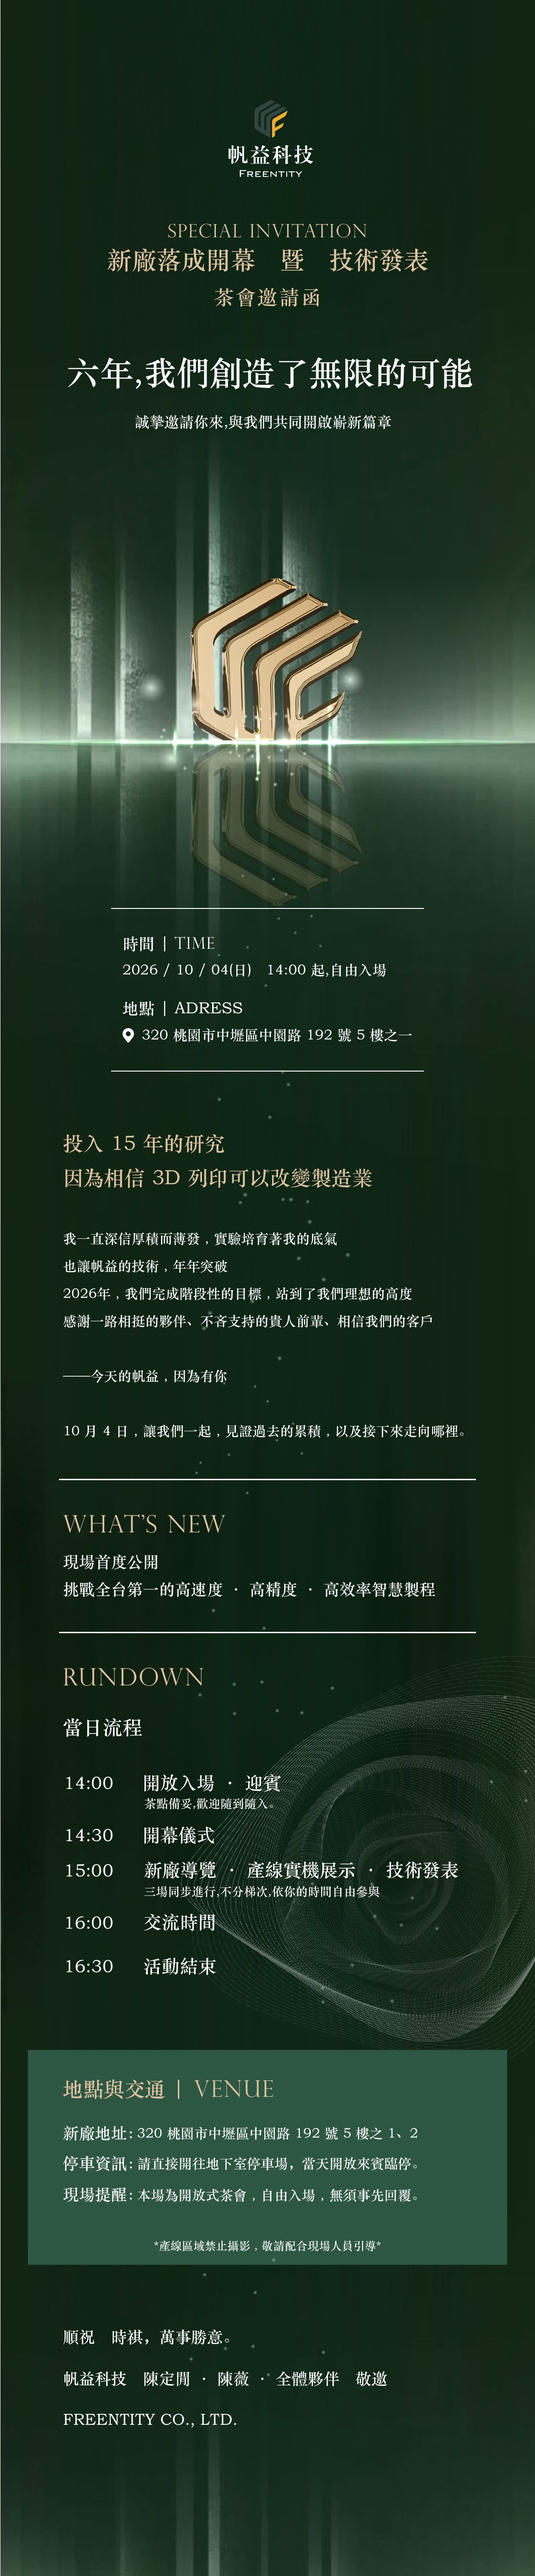
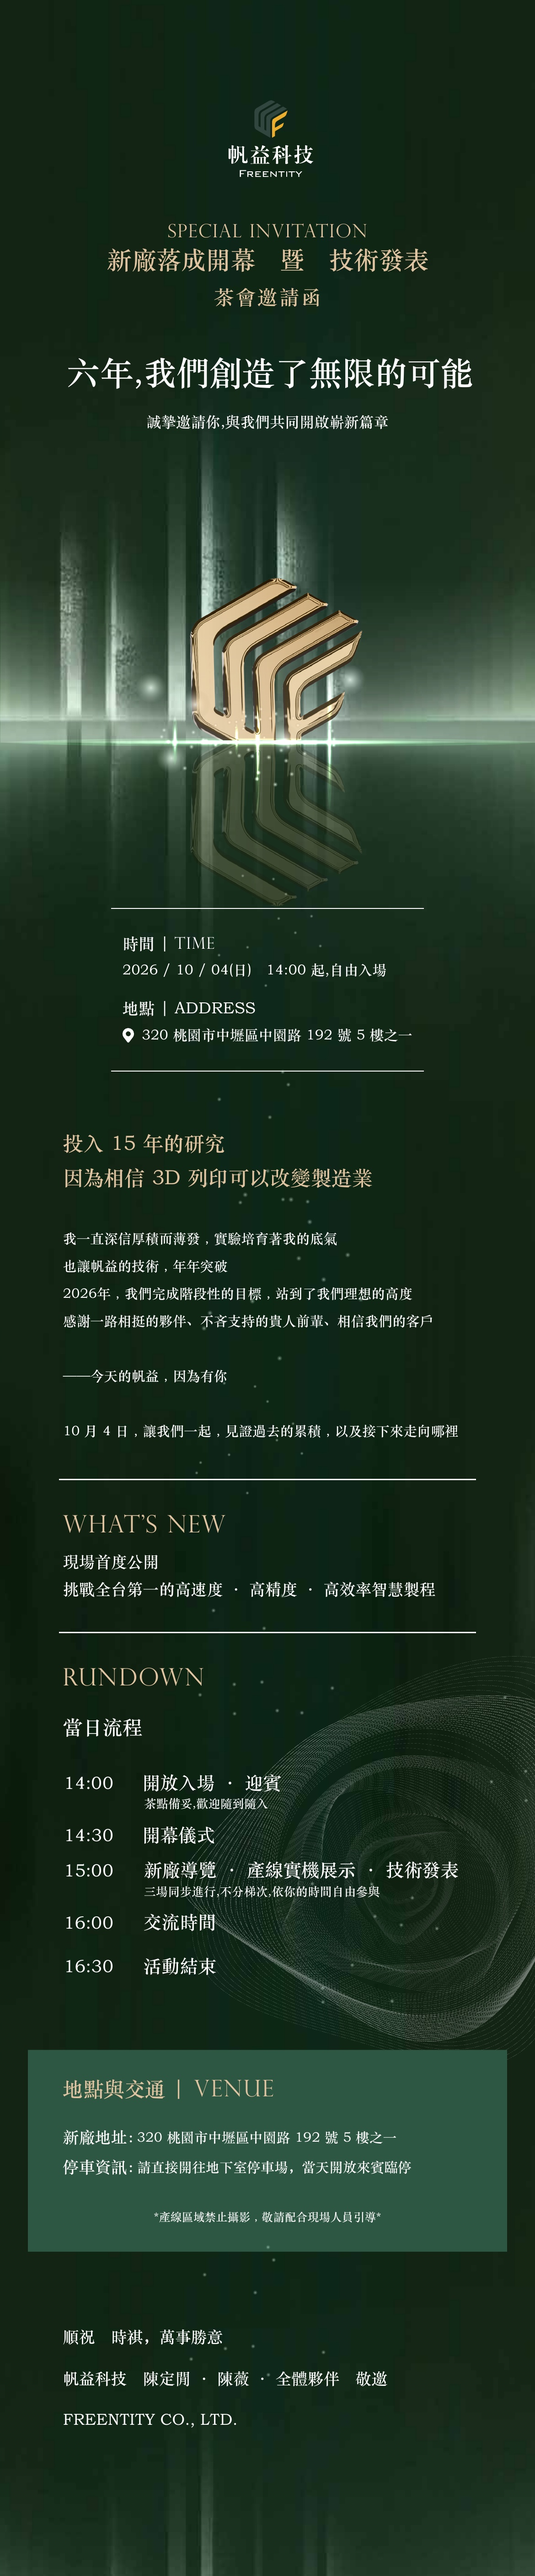
feat(invitation): refresh approved event artwork

diff --git a/index.html b/index.html
@@ -200,7 +200,7 @@
             </div>
             <div>
               <dt>VENUE</dt>
-              <dd>320 桃園市中壢區<br>中園路 192 號 5 樓之 1、2</dd>
+              <dd>320 桃園市中壢區<br>中園路 192 號 5 樓之一</dd>
             </div>
           </dl>
 
@@ -268,7 +268,7 @@
         <h3>新廠落成開幕暨技術發表</h3>
         <p>六年，我們創造了無限的可能。誠摯邀請你，與我們共同開啟嶄新篇章。</p>
         <p>時間：2026 / 10 / 04(日) 14:00 起，自由入場。</p>
-        <p>地點：320 桃園市中壢區中園路 192 號 5 樓之 1、2。</p>
+        <p>地點：320 桃園市中壢區中園路 192 號 5 樓之一。</p>
 
         <h3>投入 15 年的研究，因為相信 3D 列印可以改變製造業</h3>
         <p>我一直深信厚植而萌發，實驗培育著我的底氣，也讓帆益的技術年年突破。</p>
@@ -279,7 +279,6 @@
         <p>現場首度公開，挑戰全台第一的高速度、高精度、高效率智慧製程。</p>
 
         <h3>當日流程 RUNDOWN</h3>
-        <p>開放式茶會，自由入場，無須事先回覆。</p>
         <ol>
           <li>14:00 開放入場、迎賓。茶點備妥，歡迎隨到隨入。</li>
           <li>14:30 開幕儀式。</li>
@@ -289,10 +288,10 @@
         </ol>
 
         <h3>地點與交通 VENUE</h3>
-        <p>新廠地址：320 桃園市中壢區中園路 192 號 5 樓之 1、2。</p>
+        <p>新廠地址：320 桃園市中壢區中園路 192 號 5 樓之一。</p>
         <p>停車資訊：請直接開往地下室停車場，當天開放來賓臨停。</p>
-        <p>現場提醒：本場為開放式茶會，自由入場，無須事先回覆。產線區域禁止攝影，敬請配合現場人員引導。</p>
-        <p>順祝時祺，萬事勝意。帆益科技 陳定閎・陳薇 敬邀。FREENTITY CO., LTD.</p>
+        <p>產線區域禁止攝影，敬請配合現場人員引導。</p>
+        <p>順祝時祺，萬事勝意。帆益科技 陳定閎・陳薇・全體夥伴 敬邀。FREENTITY CO., LTD.</p>
       </article>
     </main>
 

diff --git a/tests/utilities.spec.js b/tests/utilities.spec.js
@@ -2,8 +2,8 @@ import { createHash } from 'node:crypto';
 import { readFile } from 'node:fs/promises';
 import { expect, test } from '@playwright/test';
 
[7 lines of base64/hex data omitted]
@@ -54,11 +54,11 @@ test('keeps the complete invitation transcript available to assistive technology
   await expect(transcript).toContainText('新廠落成開幕暨技術發表');
   await expect(transcript).toContainText('誠摯邀請你，與我們共同開啟嶄新篇章');
   await expect(transcript).toContainText('2026 / 10 / 04(日) 14:00 起，自由入場');
-  await expect(transcript).toContainText('320 桃園市中壢區中園路 192 號 5 樓之 1、2');
-  await expect(transcript).toContainText('無須事先回覆');
+  await expect(transcript).toContainText('320 桃園市中壢區中園路 192 號 5 樓之一');
+  await expect(transcript).not.toContainText('無須事先回覆');
   await expect(transcript).toContainText('14:00 開放入場、迎賓');
   await expect(transcript).toContainText('16:30 活動結束');
-  await expect(transcript).toContainText('帆益科技 陳定閎・陳薇 敬邀');
+  await expect(transcript).toContainText('帆益科技 陳定閎・陳薇・全體夥伴 敬邀');
 });
 
 test('loads the approved invitation as one continuous responsive artwork', async ({ page, request }) => {

diff --git a/tests/reader-chrome.spec.js b/tests/reader-chrome.spec.js
@@ -112,6 +112,9 @@ test('keeps the rail off screens too short to hold it, falling back to the heade
 test('keeps the tall desktop rail fully on screen', async ({ page }) => {
   await openInvitation(page, { width: 1440, height: 1000 });
 
+  await expect(page.locator('.rail__facts')).toContainText('中園路 192 號 5 樓之一');
+  await expect(page.locator('.rail__facts')).not.toContainText('1、2');
+
   const rail = await page.locator('.reader-rail').boundingBox();
   const brand = await page.locator('.rail__brand').boundingBox();
   expect(rail.y).toBeGreaterThanOrEqual(0);

diff --git a/tests/deployment.spec.js b/tests/deployment.spec.js
@@ -102,6 +102,7 @@ test('offers the event as a repository-local calendar download', async ({ page, 
   expect(calendarBody).toContain('DTSTART;TZID=Asia/Taipei:20261004T140000');
   expect(calendarBody).toContain('DTEND;TZID=Asia/Taipei:20261004T163000');
   expect(calendarBody).toContain('SUMMARY:帆益科技新廠落成開幕暨技術發表');
+  expect(calendarBody).toContain('LOCATION:320 桃園市中壢區中園路 192 號 5 樓之一');
 });
 
 test('opens every outbound link in a rel-protected new tab', async ({ page }) => {
